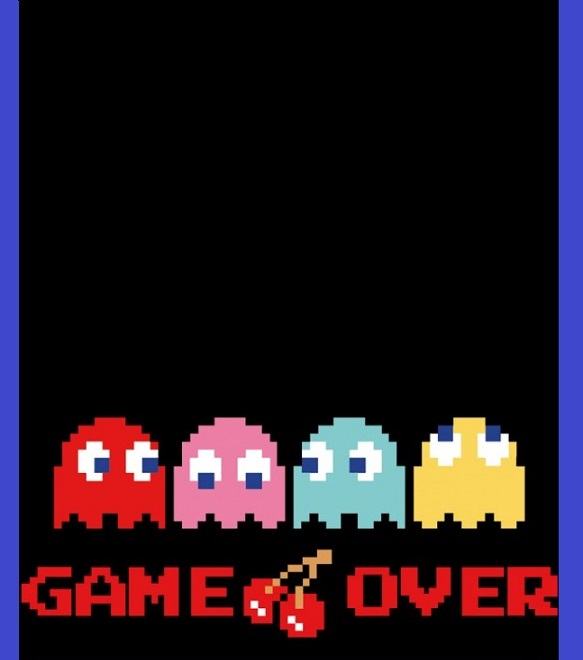
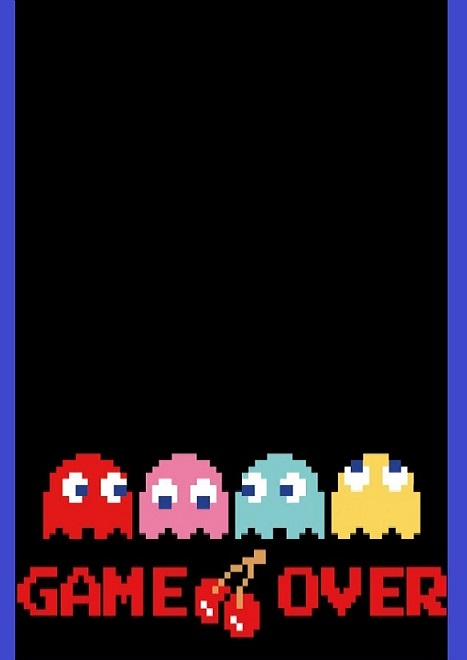
set conclusion to GameOverFrame

Changed region(s): [[0.0899, 0.6061, 0.8994, 0.8182]]

diff --git a/src/Frames/GameOverFrame.java b/src/Frames/GameOverFrame.java
@@ -37,7 +37,7 @@ class GameOverFrame extends JFrame{
         containerPanel.add(label2);
         JPanel cont = new JPanel();
         if (record) {
-            JTextField text = new JTextField(15);
+            JTextField text = new JTextField(10);
             text.setFont(new Font("David", Font.PLAIN, 35));
             text.setHorizontalAlignment(JTextField.CENTER);
             containerPanel.add(text, BorderLayout.CENTER);
@@ -47,7 +47,6 @@ class GameOverFrame extends JFrame{
                 WinnerTableFrame.getInstance().addRowToTable(text.getText(), points);
                 WinnerTableFrame.getInstance().setVisible(true);
             };
-
 
             JButton backBtn1 = new JButton("Save");
             backBtn1.setFont(new Font("Matura MT Script Capitals", Font.PLAIN, 30));
@@ -59,21 +58,28 @@ class GameOverFrame extends JFrame{
         backBtn2.addActionListener(backToMainListener);
         cont.add(backBtn2,BorderLayout.EAST);
 
+        JPanel panel=new JPanel();
+        if (record)
+            panel.setPreferredSize(new Dimension(400,180));
+        else
+            panel.setPreferredSize(new Dimension(400,240));
         JLabel label= new JLabel();
         label.setText("<html> Total Score: "+points[0] + "<br>Regular Pills: "+points[1]+ "<br>Energy Pills: "+points[2]+"<br>Pineapples : "+points[3]+"<br>Apples: "+points[4]+"<br>Strawberries: "+points[5]+"<br></html>");
-        label.setFont(new Font("David",Font.BOLD,20));
+        if (record)
+            label.setFont(new Font("David",Font.BOLD,35));
+        else
+            label.setFont(new Font("David",Font.BOLD,22));
         label.setForeground(Color.white);
         label.setBackground(Color.black);
-        JPanel cont2 =new JPanel();
-        cont2.setBackground(Color.BLACK);
-        cont2.add(label);
-        containerPanel.add(label);
+        panel.setBackground(Color.BLACK);
+        panel.add(label);
+        containerPanel.add(panel);
 
-        containerPanel.add(cont,BorderLayout.PAGE_END);
+        containerPanel.add(cont);
     }//Constructor
 
     private void createFrame(){
-        setSize(596,678);//Set Frame dimensions.
+        setSize(480,678);//Set Frame dimensions.
         setResizable(false);//Lock Frame Size.
         setVisible(true);//Make Frame Visible.
         setLocationRelativeTo(null);//Center the frame on the screen.
